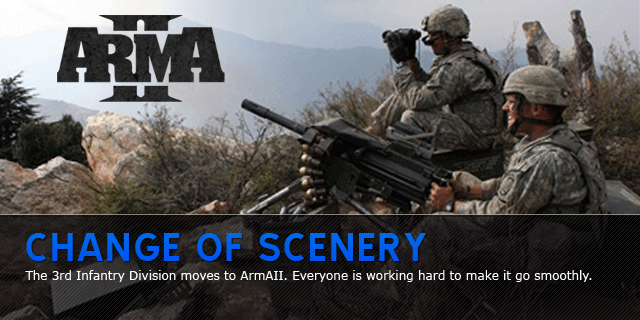
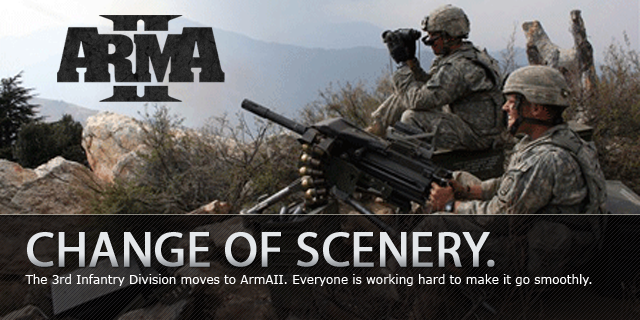
(OC) started edit news
git-svn-id: http://svn.3rd-infantry-division.org/testing/branches/Bayonet CMS v2@392 c5b2fb0a-d05d-0410-98c8-828840a80ff6

Changed region(s): [[0.0312, 0.7188, 0.9375, 0.9062]]

diff --git a/admin/style.css b/admin/style.css
@@ -24,7 +24,7 @@ a:hover {
 }
 
 h1, h2, h3, h4, h5, h6 {
-	font-family: 'Century Gothic';
+	/* font-family: 'Century Gothic'; */
 	font-weight: normal;	
 }
 h2 {

diff --git a/admin/news/functions.php b/admin/news/functions.php
@@ -17,4 +17,91 @@
  * along with this program.  If not, see <http://www.gnu.org/licenses/>.
  */
 
+function EditNews($news_id){
+	
+	global $db;
+	
+	if(isset($_POST['processed'])){
+		
+		
+		return;
+	}
+	
+	$result = $db->Query("SELECT `author_id`, `title`, `message`, `date`, `category_id` FROM `bayonet_news` WHERE `news_id` = '$news_id' LIMIT 1");
+	$row = $db->Fetch($result);
+	
+	?>
+	<h3>Edit Event</h3>
+  	<form action="<?php $_SERVER['PHP_SELF']?>" method="post">
+  	<table>
+  	<tr><th>Author</th><td><?php SelectAuthor($row['author_id']); ?></td></tr>
+  	<tr><th>Title</th><td><input type="text" name="title" value="<?php echo $row['title']; ?>" /></td></tr>
+  	<tr><th>Date</th><td><?php SelectDate($row['date']); ?></td></tr>
+  	<tr><th>Time</th><td><input type="text" name="time" value="<?php echo substr($row['time'],0,-3); ?>" maxlength="5" size="5" /></td></tr>
+  	<tr><th>Text</th><td><textarea id="markItUp" rows="30" cols="80" name="text"><?php echo $row['message']; ?></textarea></td>
+  	<tr><th colspan="2"><input type="submit" name="processed" value="Submit" /></th></tr>
+  	</table>
+  	</form>
+  	<?php
+}
+
+ /**
+  * SelectDate($date)
+  * Function for outputing an html form for selecting a month day and year
+  * @param date - formatted date string yyyy-mm-dd (optional)
+  */  
+  function SelectDate($date = NULL){
+
+	$date_arr = date_parse($date); //returns an associative array $array['year']
+				
+		//List Months
+		echo '<select name="month">';
+		for($m = 1;$m <= 12; $m++){
+		    $month =  date("F", mktime(0, 0, 0, $m));
+		    if($date_arr['month'] == $m)
+		    	echo "<option value='$m' selected=\"selected\">$month</option>";
+	    	else
+	    		echo "<option value='$m'>$month</option>";
+		}
+		echo "</select>";
+		
+		//List Days
+		echo '<select name="day">';
+		for($d = 1;$d <= 31; $d++){
+		    if($date_arr['day'] == $d)
+		    	echo "<option value='$d' selected=\"selected\">$d</option>";
+	    	else
+	    		echo "<option value='$d'>$d</option>";
+		}
+		echo "</select>";
+		
+		//List Years [CurYear, CurYear+5]
+		echo '<select name="year">';
+		$y = date('Y', time());
+		$max = $y+5;
+		for(;$y<$max; $y++){
+			if($date_arr['year'] == $y)
+		    	echo "<option value='$y' selected=\"selected\">$y</option>";
+	    	else
+	    		echo "<option value='$y'>$y</option>";		
+		}
+		echo "</select>";
+  
+  }
+  
+  function SelectAuthor($author_id){
+  
+  	  global $db;
+  	  
+  	  echo "<select name=\"author\">";
+  	  $result = $db->Query("SELECT `user_id`, `lastname` FROM `bayonet_users` WHERE `active` = 1 ORDER BY `username` ASC");
+  	  while(($row = $db->Fetch($result))!= false){
+  	  	  if($author_id == $row['user_id'])
+  	  	  	echo "<option value=\"{$row['user_id']}\" selected>{$row['lastname']}</option>";
+  	  	  else
+  	  	  	echo "<option value=\"{$row['user_id']}\">{$row['lastname']}</option>";
+  	  }
+  	  echo "</select>";
+  }
+  
 ?>

diff --git a/includes/debug.php b/includes/debug.php
@@ -25,6 +25,44 @@ define('REPEAT','repeat');
 static $last_message = NULL;
 static $last_message_count = 0;
 
+static $log_message_last = 0;
+static $log_message_queue = array();
+static $log_message_pos = 0;
+function decho2($message)
+{
+	global $log_message_last, $log_message_queue;
+	$log_message_last_count = 0;
+	
+	if($log_message_queue[$log_message_pos] !== $log_message_last)
+	{
+		array_push($log_message_queue, $message);
+		$log_message_pos++;
+	}
+	else
+	{
+		$log_message_last_count++;
+		if($log_message_last_count > 3)
+		{
+			echo "Previous message recieved $log_message_last_count times<br/>\n";
+			$log_message_last_count = 0;
+		}
+	}
+}
+
+function logQueueFlush()
+{
+	global $log_message_queue;
+	$messageCount = 0;
+	echo "<div class=\"contentHeading\">Bayonet Debug Messages</div>";
+	echo "<div class=\"content\">";
+	foreach($log_message_queue as $message)
+	{
+		echo "{$messageCount}: $message<br/>\n";
+		$messageCount++;
+	}
+	echo "</div>";
+}
+
 function decho($message, $flag = REPEAT)
 {
   global $last_message, $last_message_count;

diff --git a/admin/newsreel/functions.php b/admin/newsreel/functions.php
@@ -16,6 +16,7 @@ ul {
 	border: #CCCCCC solid 1px;
 	color:#fff;
 	text-align:center;
+	cursor:move;
 }
 
 </style>
@@ -105,6 +106,7 @@ $(document).ready(function(){
  function ListInactive(){
  	
 	 global $db;
+	 echo "<h3>Disabled Slides</h3>";
 	 $result = $db->query("SELECT `slide_id`, `title`, `src` FROM `bayonet_newsreel` WHERE `visible` = 0 ORDER BY `slide_id` DESC");
 	 while(($row = $db->fetch($result))!= false){
 	 	

diff --git a/admin/news/index.php b/admin/news/index.php
@@ -21,4 +21,18 @@ if(!defined("ADMIN_FILE"))
 {
   die("Access denied.");
 }
- ?>
+
+include $basedir.'news/functions.php';
+
+echo "<table class=\"panel\" width=\"100%\">
+		<tr><td class=\"panel\">";
+
+if(isset($_GET['edit'])){
+	$news_id = $_GET['edit'];
+	EditNews($news_id);
+	return;
+}
+
+
+?>
+	</td></tr></table>

diff --git a/admin/newsreel/index.php b/admin/newsreel/index.php
@@ -24,6 +24,7 @@ if(!defined("ADMIN_FILE"))
 
 include $basedir.'newsreel/functions.php';
 ?>
+ <div style="text-align:left;"><h2>- Manage News Reel</h2></div>
 	<table class="panel" width="100%">
 		<tr>
 			<td class="panel"><?php EditOrder(); ?></td>
